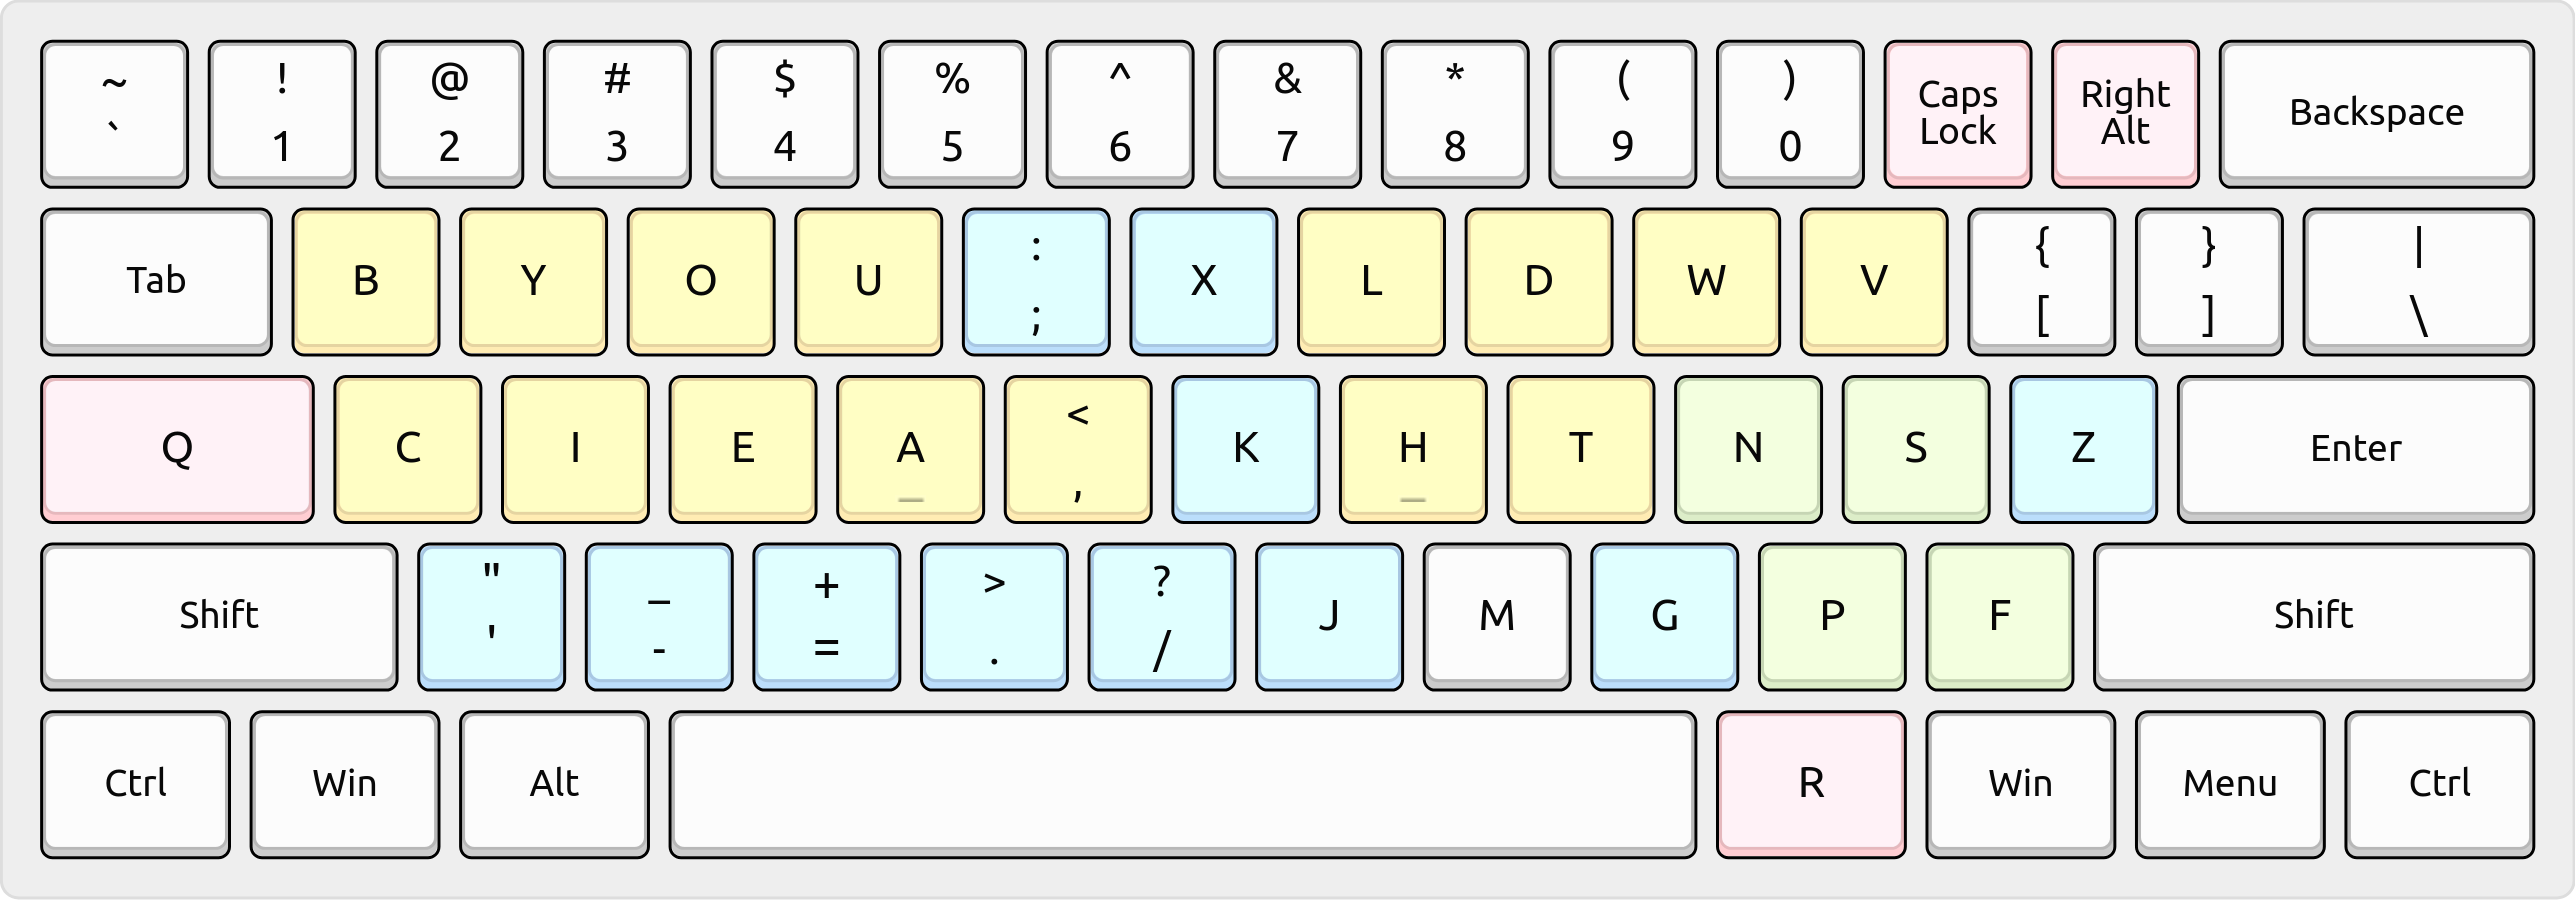
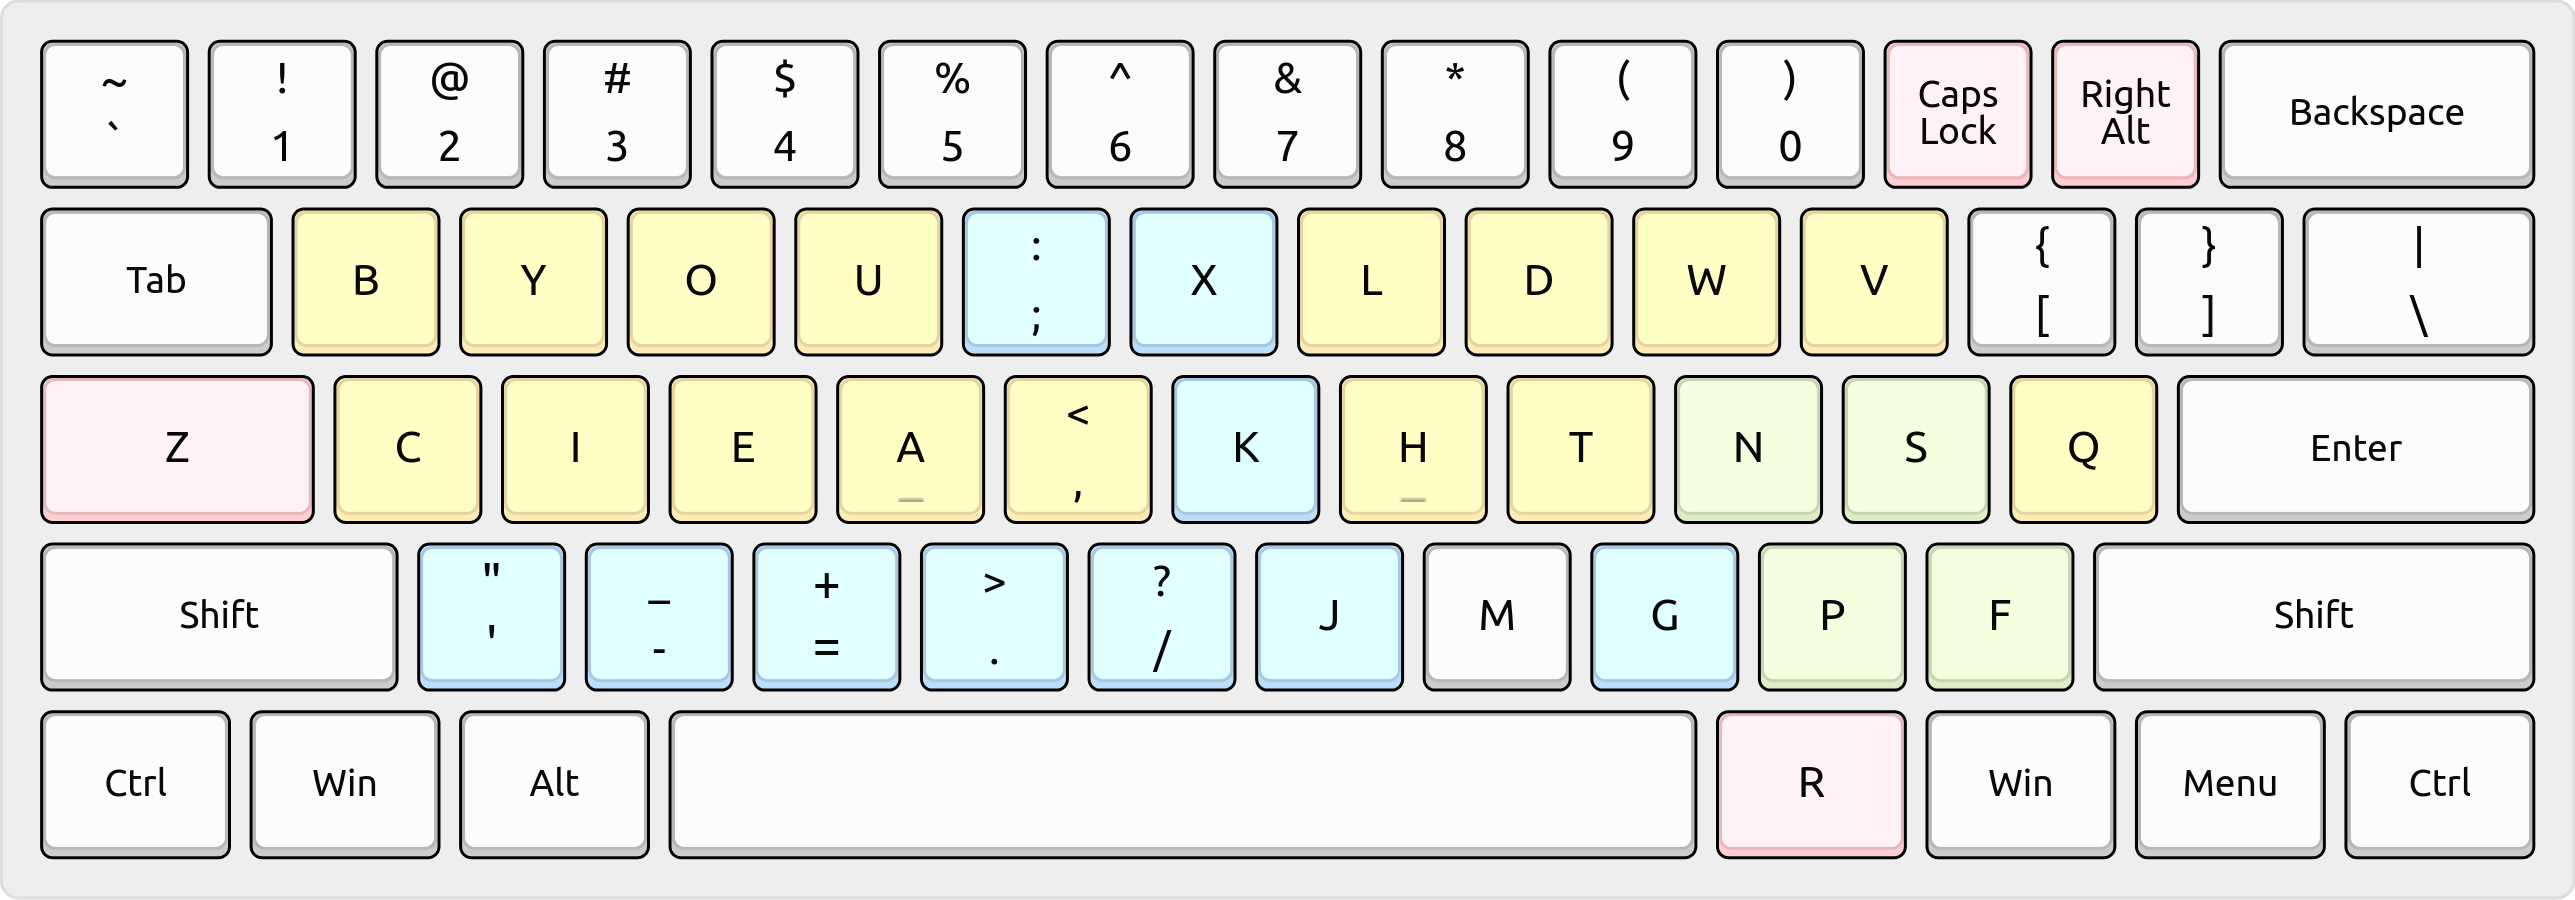
swap Q/Z to be like Engram and avoid one-handed QU

Changed region(s): [[0.7767, 0.4044, 0.8388, 0.5911], [0.0621, 0.4667, 0.0932, 0.5289]]

diff --git a/README.md b/README.md
@@ -20,7 +20,7 @@ days (start Friday and use weekend), to unlock all letters in [KeyBr] training.
 ## Layout
 
       b y o u ; x l d w v
-    q c i e a , k h t n s z
+    z c i e a , k h t n s q
       ' - = . / j m g p f
                 r
 
@@ -28,6 +28,7 @@ days (start Friday and use weekend), to unlock all letters in [KeyBr] training.
 
 * [Rationale](#rationale)
   * [Deviation: PF and WV](#deviation-pf-and-wv)
+  * [Deviation: Q and Z](#deviation-q-and-z)
 * [Performance](#performance)
   * [Cyanophage analyzer](#cyanophage-analyzer)
   * [KeySolve analyzer](#keysolve-analyzer)
@@ -42,6 +43,7 @@ days (start Friday and use weekend), to unlock all letters in [KeyBr] training.
 ## Rationale
 
 * Q and Z are split apart onto different hands for balance and symmetry.
+  Q is placed on the consonant hand (like Engram) to avoid one-handed QU.
 
 * Apostrophe is away (on a different finger entirely) from YOU and I so
   it can be typed without same-finger bigrams such as `you'd` and `I'd`.
@@ -86,6 +88,20 @@ I'm _so glad_ this experiment worked out because it makes the layout a lot more
 comfortable for me in practice and it would also further reduce the barrier to
 entry for others seeking to switch over to Enthium from the Engrammer layout. :)
 
+### Deviation: Q and Z
+
+Q and Z are swapped to be like Engram (with Q typed by the right pinky finger)
+in order to avoid one-handed QU sequences (in favor of hand alternation) which
+overwork the left pinky finger during [KeyBr] training and actual usage alike.
+
+This deviation incurred a modest increase in Oxey's analyzer's Total Redirects
+from 0.350% to 3.389%, along with a decrease in Onehands from 2.206% to 2.091%,
+and a significant increase in the Total Rolls score from 43.816% up to 44.055%.
+Similarly, Cyanophage's Total Word Effort score decreased from 735.9 to 735.1,
+along with a negligible increase in the Effort score from 398.34 up to 398.38,
+and with similarly modest differences in the Trigram Stats score distribution.
+In contrast, there was no change at all in the KeySolve analyzer's statistics!
+
 ## Performance
 
 ### [Cyanophage analyzer][cNT]
@@ -93,8 +109,8 @@ entry for others seeking to switch over to Enthium from the Engrammer layout. :)
 ![Screenshot](stats/enthium/cyanophage.png)
 
 Overall stats:
-* Total Word Effort: 735.9
-* Effort:            398.34
+* Total Word Effort: 735.1
+* Effort:            398.38
 
 Finger usage:
 * Same Finger Bigrams: 0.55%
@@ -103,15 +119,15 @@ Finger usage:
 * Pinky/Ring Scissors: 0.49%
 
 Trigram stats:
-* alt:             37.47%
-* bigram roll in:  28.99%
-* bigram roll out: 14.71%
-* other:           9.07%
-* alt sfs:         5.08%
-* redirect:        1.94%
-* roll in:         1.36%
-* weak redirect:   1.24%
-* roll out:        0.13%
+* alt:             37.30%
+* bigram roll in:  29.06%
+* bigram roll out: 14.88%
+* other:           9.08%
+* alt sfs:         5.07%
+* redirect:        1.80%
+* roll in:         1.37%
+* weak redirect:   1.31%
+* roll out:        0.14%
 
 ### [KeySolve analyzer](https://clemenpine.github.io/keysolve-web/)
 
@@ -136,7 +152,7 @@ Custom source for copy/paste:
     b y o u ; x l d w v
     c i e a , k h t n s
     ' - = . / j m g p f
-    r q z
+    r z q
 
 ### [Oxey's analyzer](https://oxey.dev/playground/index.html)
 
@@ -144,18 +160,18 @@ Custom source for copy/paste:
 
 Overall stats:
 * Sfb:              0.829%
-* Dsfb:             6.529%
+* Dsfb:             6.534%
 * Lsb:              0.319%
-* Inrolls:          29.137%
-* Outrolls:         14.679%
-* Total Rolls:      43.816%
-* Onehands:         2.206%
-* Alternates:       34.215%
-* Alternates (sfs): 8.044%
-* Total Alternates: 42.259%
-* Redirects:        2.107%
+* Inrolls:          29.183%
+* Outrolls:         14.872%
+* Total Rolls:      44.055%
+* Onehands:         2.091%
+* Alternates:       34.062%
+* Alternates (sfs): 8.035%
+* Total Alternates: 42.096%
+* Redirects:        2.146%
 * BadRedirects:     1.243%
-* Total Redirects:  3.350%
+* Total Redirects:  3.389%
 * Other:            8.369%
 * Invalid:          0.001%
 
@@ -186,8 +202,8 @@ and you'll see that Enthium is among the best (statistically) layouts there:
 
 * 0.829% SFBs -- second place; same as Recurva 🥈
 * 0.319% LSBs -- first place; beats entire table! 🥇
-* 43.816% rolls -- better than Graphite and MTGAP
-* 3.350% redirects -- surpassed only by Graphite, Gallium, and Nerps
+* 44.055% rolls -- beats MTGAP, Graphite, BEAKL-19, Engram, Dvorak, Halmak
+* 3.389% redirects -- surpassed only by Nerps, Graphite, Gallium, BEAKL-19
 * I don't know how "Pinky off" is calculated so I can't compare it yet
 
 [rKL]: https://www.reddit.com/r/KeyboardLayouts/
@@ -195,7 +211,7 @@ and you'll see that Enthium is among the best (statistically) layouts there:
 
 For completeness, I've tabulated all [statistics for this and related layouts]( stats/ ):
 
-[cNT]: https://cyanophage.github.io/playground.html?layout=vwdlx%3Buoyb%5Csnthk%2Caeicqfpgmj%2F.%3D-%27zr&mode=ergo&lan=english
+[cNT]: https://cyanophage.github.io/playground.html?layout=vwdlx%3Buoyb%5Csnthk%2Caeiczfpgmj%2F.%3D-%27qr&mode=ergo&lan=english
 [cPM]: https://cyanophage.github.io/playground.html?layout=fpdlx%3Buoybzsnthk%2Caeicqvwgmj-.%27%3D%2F%5Cr&mode=ergo&lan=english
 [cNG]: https://cyanophage.github.io/playground.html?layout=byou%27%3Bldwvzciea%2C.htsnqgxjk-%2Frmfp%5C%5E&mode=ergo&lan=english
 [cDV]: https://cyanophage.github.io/playground.html?layout=%27%2C.pyfgcrl%2Faoeuidhtns-%3Bqjkxbmwvz%5C%5E&mode=ergo&lan=english
@@ -204,18 +220,18 @@ For completeness, I've tabulated all [statistics for this and related layouts]( 
 | Analyzer   | Category  | Statistic           | [Enthium][cNT] | [Promethium][cPM] | [Engrammer][cNG] | [Dvorak][cDV] | [Colemak-DH][cCD] |
 | ---------- | --------- | ------------------- | -------------- | ----------------- | ---------------- | ------------- | ----------------- |
 | Oxey's     | Bigrams   | SFB                 | *0.829%*       | 0.868%            | 1.511%           | 2.779%        | 1.367%            |
-| Oxey's     | Bigrams   | DSFB                | 6.529%         | 6.761%            | 7.620%           | 6.979%        | 8.767%            |
+| Oxey's     | Bigrams   | DSFB                | 6.534%         | 6.761%            | 7.620%           | 6.979%        | 8.767%            |
 | Oxey's     | Bigrams   | LSB                 | *0.319%*       | 0.404%            | 0.671%           | 1.255%        | 1.975%            |
-| Oxey's     | Trigrams  | Inrolls             | 29.137%        | 29.333%           | 28.273%          | 23.820%       | 25.173%           |
-| Oxey's     | Trigrams  | Outrolls            | 14.679%        | 14.526%           | 14.050%          | 15.104%       | 20.940%           |
-| Oxey's     | Trigrams  | Total Rolls         | *43.816%*      | 43.858%           | 42.323%          | 38.924%       | 46.113%           |
-| Oxey's     | Trigrams  | Onehands            | 2.206%         | 2.189%            | 2.146%           | 0.624%        | 2.484%            |
-| Oxey's     | Trigrams  | Alternates          | 34.215%        | 33.770%           | 32.483%          | 35.769%       | 22.913%           |
-| Oxey's     | Trigrams  | Alternates (SFS)    | 8.044%         | 8.205%            | 8.752%           | 8.787%        | 7.461%            |
-| Oxey's     | Trigrams  | Total Alternates    | 42.259%        | 41.974%           | 41.235%          | 44.556%       | 30.375%           |
-| Oxey's     | Trigrams  | Redirects           | 2.107%         | 2.273%            | 3.103%           | 2.639%        | 9.081%            |
+| Oxey's     | Trigrams  | Inrolls             | 29.183%        | 29.333%           | 28.273%          | 23.820%       | 25.173%           |
+| Oxey's     | Trigrams  | Outrolls            | 14.872%        | 14.526%           | 14.050%          | 15.104%       | 20.940%           |
+| Oxey's     | Trigrams  | Total Rolls         | *44.055%*      | 43.858%           | 42.323%          | 38.924%       | 46.113%           |
+| Oxey's     | Trigrams  | Onehands            | 2.091%         | 2.189%            | 2.146%           | 0.624%        | 2.484%            |
+| Oxey's     | Trigrams  | Alternates          | 34.062%        | 33.770%           | 32.483%          | 35.769%       | 22.913%           |
+| Oxey's     | Trigrams  | Alternates (SFS)    | 8.035%         | 8.205%            | 8.752%           | 8.787%        | 7.461%            |
+| Oxey's     | Trigrams  | Total Alternates    | 42.096%        | 41.974%           | 41.235%          | 44.556%       | 30.375%           |
+| Oxey's     | Trigrams  | Redirects           | 2.146%         | 2.273%            | 3.103%           | 2.639%        | 9.081%            |
 | Oxey's     | Trigrams  | BadRedirects        | 1.243%         | 1.236%            | 1.386%           | 0.818%        | 1.498%            |
-| Oxey's     | Trigrams  | Total Redirects     | *3.350%*       | 3.509%            | 4.489%           | 3.458%        | 10.579%           |
+| Oxey's     | Trigrams  | Total Redirects     | *3.389%*       | 3.509%            | 4.489%           | 3.458%        | 10.579%           |
 | Oxey's     | Trigrams  | Other               | 8.369%         | 8.468%            | 9.806%           | 12.437%       | 9.202%            |
 | Oxey's     | Trigrams  | Invalid             | 0.001%         | 0.001%            | 0.001%           | 0.001%        | 1.248%            |
 | Oxey's     | Usage     | Finger 0            | 5.02%          | 9.56%             | 6.58%            | 8.50%         | 8.12%             |
@@ -261,21 +277,21 @@ For completeness, I've tabulated all [statistics for this and related layouts]( 
 | KeySolve   | Usage     | RP                  | 8.95%          | 8.95%             | 9.47%            | 10.08%        | 8.16%             |
 | KeySolve   | Total     | LH                  | 47.18%         | 47.18%            | 48.75%           | 46.31%        | 44.46%            |
 | KeySolve   | Total     | RH                  | 52.82%         | 52.82%            | 51.25%           | 53.69%        | 55.54%            |
-| Cyanophage | Summary   | Total Word Effort   | 735.9          | 732.3             | 899.8            | 1185.5        | 1048.2            |
-| Cyanophage | Summary   | Effort              | 398.34         | 398.07            | 457.44           | 769.78        | 535.05            |
+| Cyanophage | Summary   | Total Word Effort   | 735.1          | 732.3             | 899.8            | 1185.5        | 1048.2            |
+| Cyanophage | Summary   | Effort              | 398.38         | 398.07            | 457.44           | 769.78        | 535.05            |
 | Cyanophage | Bigrams   | Same Finger Bigrams | 0.55%          | 0.58%             | 0.99%            | 1.87%         | 0.91%             |
 | Cyanophage | Bigrams   | Skip Bigrams (2u)   | 0.30%          | 0.36%             | 0.39%            | 0.45%         | 0.41%             |
 | Cyanophage | Bigrams   | Lat Stretch Bigrams | 0.20%          | 0.24%             | 0.41%            | 0.80%         | 1.27%             |
 | Cyanophage | Bigrams   | Pinky/Ring Scissors | 0.49%          | 0.42%             | 0.71%            | 0.40%         | 0.65%             |
-| Cyanophage | Trigrams  | Alt                 | 37.47%         | 36.98%            | 35.62%           | 39.08%        | 25.43%            |
-| Cyanophage | Trigrams  | Alt SFS             | 5.08%          | 5.27%             | 5.93%            | 5.85%         | 5.47%             |
-| Cyanophage | Trigrams  | Roll in             | 1.36%          | 1.37%             | 1.82%            | 0.86%         | 1.50%             |
-| Cyanophage | Trigrams  | Roll out            | 0.13%          | 0.11%             | 0.29%            | 0.27%         | 0.98%             |
-| Cyanophage | Trigrams  | Bigram roll in      | 28.99%         | 29.18%            | 28.14%           | 23.51%        | 25.18%            |
-| Cyanophage | Trigrams  | Bigram roll out     | 14.71%         | 14.56%            | 14.03%           | 15.14%        | 21.55%            |
-| Cyanophage | Trigrams  | Redirect            | 1.94%          | 2.03%             | 3.05%            | 2.57%         | 9.22%             |
-| Cyanophage | Trigrams  | Weak redirect       | 1.24%          | 1.30%             | 1.40%            | 0.28%         | 1.52%             |
-| Cyanophage | Trigrams  | Other               | 9.07%          | 9.20%             | 9.72%            | 12.44%        | 9.17%             |
+| Cyanophage | Trigrams  | Alt                 | 37.30%         | 36.98%            | 35.62%           | 39.08%        | 25.43%            |
+| Cyanophage | Trigrams  | Alt SFS             | 5.07%          | 5.27%             | 5.93%            | 5.85%         | 5.47%             |
+| Cyanophage | Trigrams  | Roll in             | 1.37%          | 1.37%             | 1.82%            | 0.86%         | 1.50%             |
+| Cyanophage | Trigrams  | Roll out            | 0.14%          | 0.11%             | 0.29%            | 0.27%         | 0.98%             |
+| Cyanophage | Trigrams  | Bigram roll in      | 29.06%         | 29.18%            | 28.14%           | 23.51%        | 25.18%            |
+| Cyanophage | Trigrams  | Bigram roll out     | 14.88%         | 14.56%            | 14.03%           | 15.14%        | 21.55%            |
+| Cyanophage | Trigrams  | Redirect            | 1.80%          | 2.03%             | 3.05%            | 2.57%         | 9.22%             |
+| Cyanophage | Trigrams  | Weak redirect       | 1.31%          | 1.30%             | 1.40%            | 0.28%         | 1.52%             |
+| Cyanophage | Trigrams  | Other               | 9.08%          | 9.20%             | 9.72%            | 12.44%        | 9.17%             |
 
 ## Installation
 
